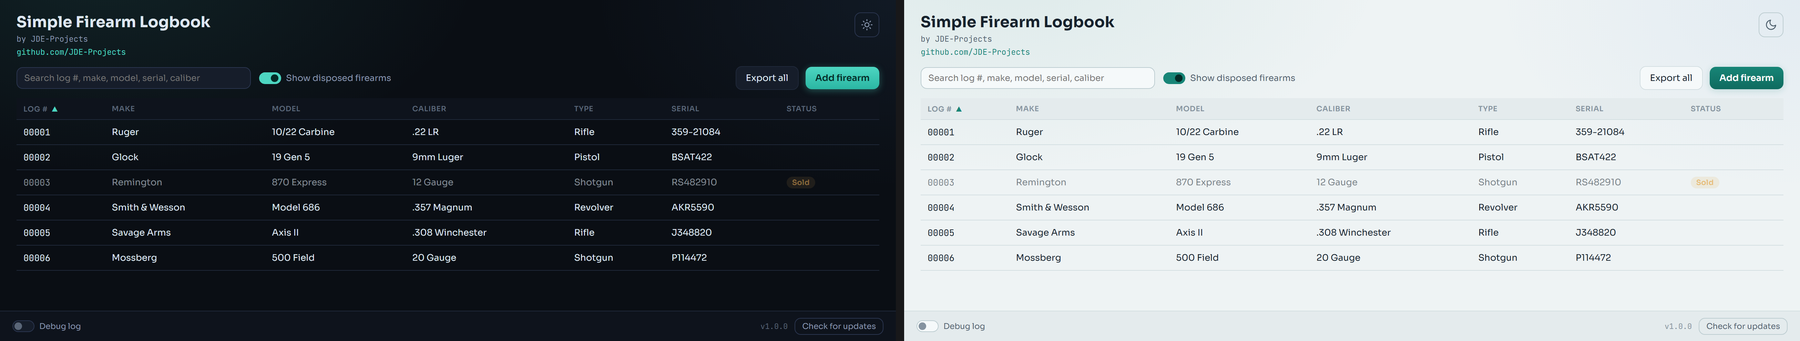
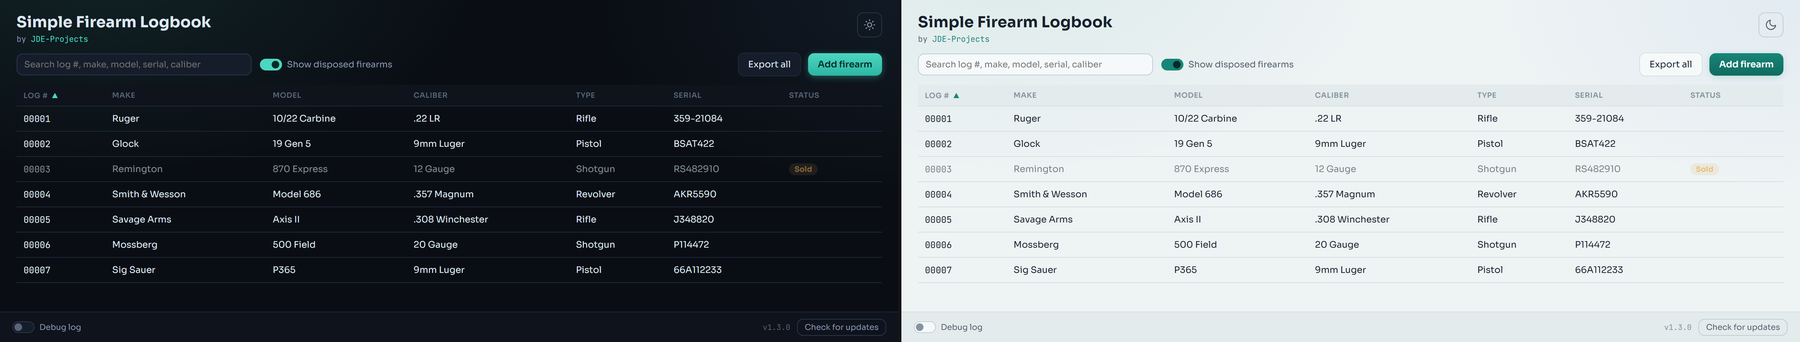
Bump version to v1.3.0

diff --git a/simple_firearm_logbook.py b/simple_firearm_logbook.py
@@ -26,7 +26,7 @@ from decimal import Decimal, InvalidOperation
 
 import webview
 
-APP_VERSION = "1.2.0"
+APP_VERSION = "1.3.0"
 GITHUB_OWNER = "JDE-Projects"
 GITHUB_REPO = "Simple-Firearm-Logbook"
 